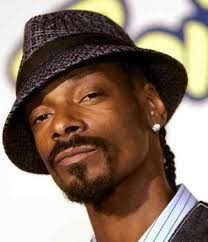
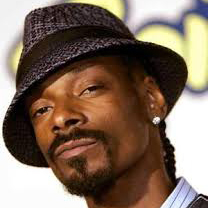
little fix in "rap". image + scss

diff --git a/scss/_rap.scss b/scss/_rap.scss
@@ -105,7 +105,6 @@ NAVIGATION STYLES
             img{
               border-radius: 50px 15px 50px 15px;
               width: 40%;
-              height: 27vh;
               margin-right: 10px;
               @include breakpoint(715) {
                 width: 30vw;
